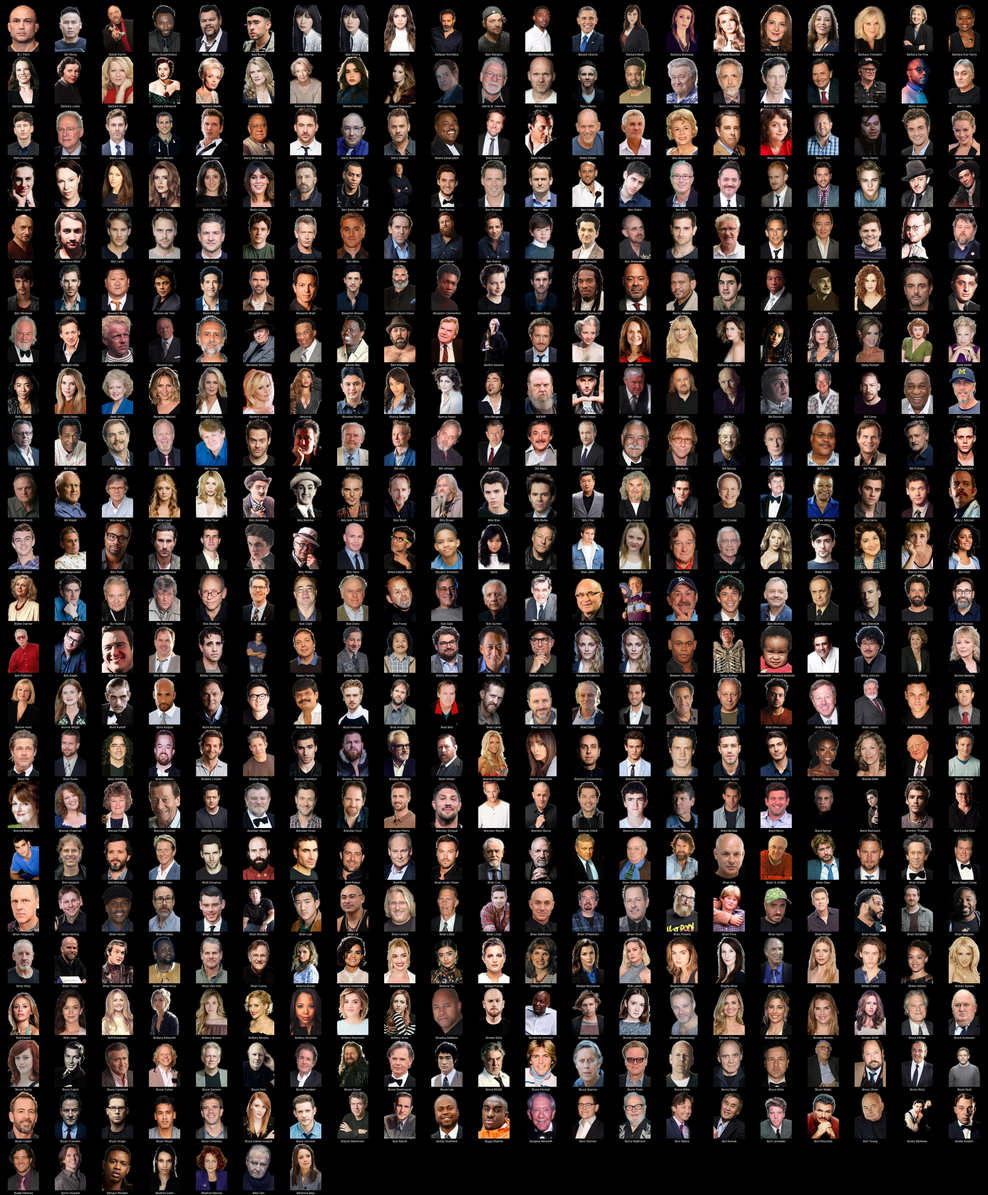
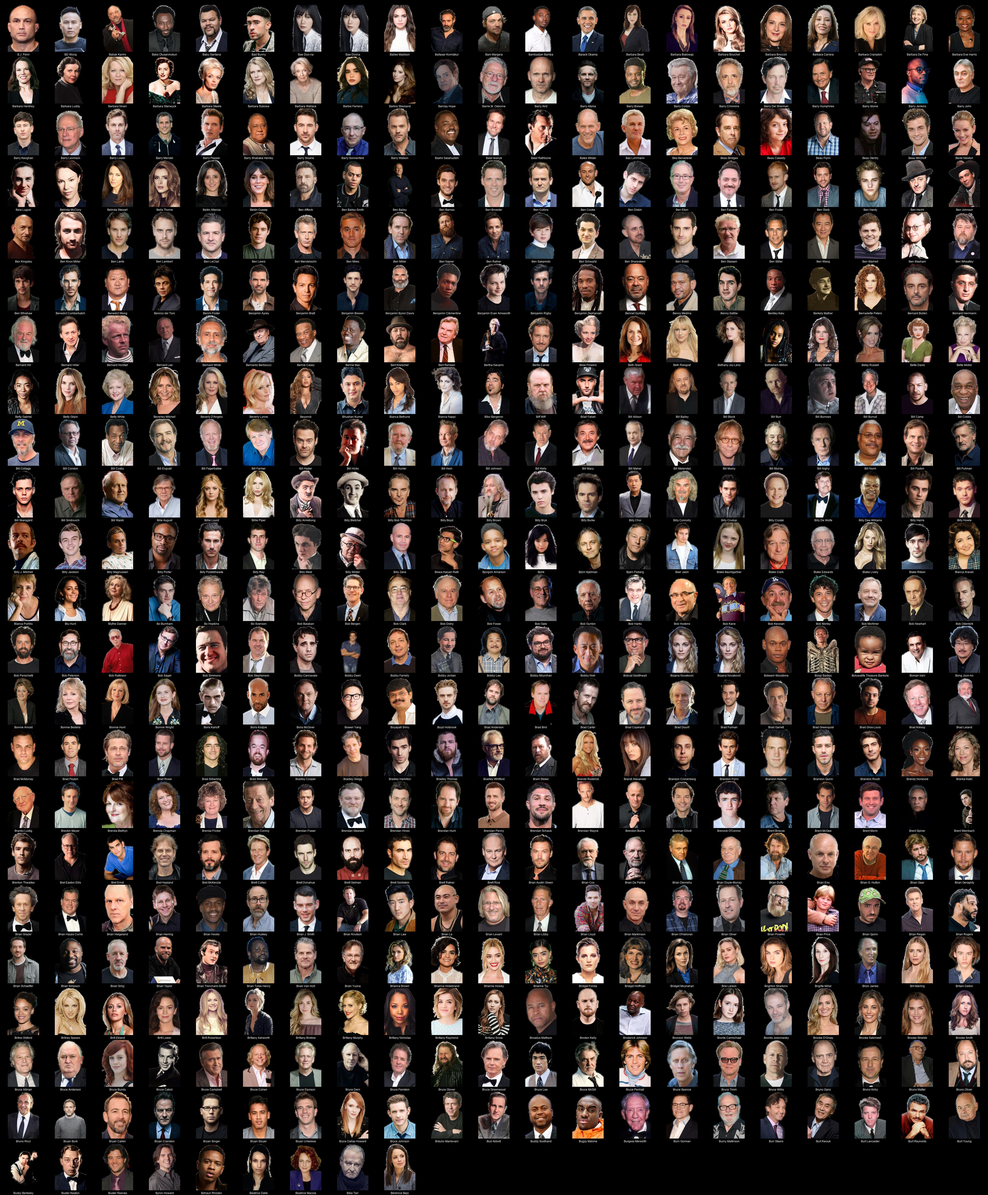
more people

Changed region(s): [[0.0, 0.311, 0.9981, 1.0]]

diff --git a/B/README.md b/B/README.md
@@ -1,4 +1,4 @@
-# Kometa People Images - Transparent (transparent) - B (469 Images)
+# Kometa People Images - Transparent (transparent) - B (471 Images)
 ![Grid](grid.jpg)
 
 * [B.J. Penn](https://raw.githubusercontent.com/Kometa-Team/People-Images-transparent/master/B/Images/B.J.%20Penn.png)
@@ -163,6 +163,7 @@
 * [Bilall Fallah](https://raw.githubusercontent.com/Kometa-Team/People-Images-transparent/master/B/Images/Bilall%20Fallah.png)
 * [Bill Allison](https://raw.githubusercontent.com/Kometa-Team/People-Images-transparent/master/B/Images/Bill%20Allison.png)
 * [Bill Bailey](https://raw.githubusercontent.com/Kometa-Team/People-Images-transparent/master/B/Images/Bill%20Bailey.png)
+* [Bill Block](https://raw.githubusercontent.com/Kometa-Team/People-Images-transparent/master/B/Images/Bill%20Block.png)
 * [Bill Burr](https://raw.githubusercontent.com/Kometa-Team/People-Images-transparent/master/B/Images/Bill%20Burr.png)
 * [Bill Burrows](https://raw.githubusercontent.com/Kometa-Team/People-Images-transparent/master/B/Images/Bill%20Burrows.png)
 * [Bill Burrud](https://raw.githubusercontent.com/Kometa-Team/People-Images-transparent/master/B/Images/Bill%20Burrud.png)
@@ -222,6 +223,7 @@
 * [Biswa Kalyan Rath](https://raw.githubusercontent.com/Kometa-Team/People-Images-transparent/master/B/Images/Biswa%20Kalyan%20Rath.png)
 * [Bjorgvin Arnarson](https://raw.githubusercontent.com/Kometa-Team/People-Images-transparent/master/B/Images/Bjorgvin%20Arnarson.png)
 * [Björk](https://raw.githubusercontent.com/Kometa-Team/People-Images-transparent/master/B/Images/Bj%C3%B6rk.png)
+* [Björn Kjellman](https://raw.githubusercontent.com/Kometa-Team/People-Images-transparent/master/B/Images/Bj%C3%B6rn%20Kjellman.png)
 * [Bjørn Floberg](https://raw.githubusercontent.com/Kometa-Team/People-Images-transparent/master/B/Images/Bj%C3%B8rn%20Floberg.png)
 * [Blair Jasin](https://raw.githubusercontent.com/Kometa-Team/People-Images-transparent/master/B/Images/Blair%20Jasin.png)
 * [Blake Baumgartner](https://raw.githubusercontent.com/Kometa-Team/People-Images-transparent/master/B/Images/Blake%20Baumgartner.png)

diff --git a/A/README.md b/A/README.md
@@ -1,4 +1,4 @@
-# Kometa People Images - Transparent (transparent) - A (764 Images)
+# Kometa People Images - Transparent (transparent) - A (765 Images)
 ![Grid](grid.jpg)
 
 * [Aamir Khan](https://raw.githubusercontent.com/Kometa-Team/People-Images-transparent/master/A/Images/Aamir%20Khan.png)
@@ -556,6 +556,7 @@
 * [Annabelle Wallis](https://raw.githubusercontent.com/Kometa-Team/People-Images-transparent/master/A/Images/Annabelle%20Wallis.png)
 * [Annaleigh Ashford](https://raw.githubusercontent.com/Kometa-Team/People-Images-transparent/master/A/Images/Annaleigh%20Ashford.png)
 * [Annalisa Cochrane](https://raw.githubusercontent.com/Kometa-Team/People-Images-transparent/master/A/Images/Annalisa%20Cochrane.png)
+* [Anndi McAfee](https://raw.githubusercontent.com/Kometa-Team/People-Images-transparent/master/A/Images/Anndi%20McAfee.png)
 * [Anne Archer](https://raw.githubusercontent.com/Kometa-Team/People-Images-transparent/master/A/Images/Anne%20Archer.png)
 * [Anne Bancroft](https://raw.githubusercontent.com/Kometa-Team/People-Images-transparent/master/A/Images/Anne%20Bancroft.png)
 * [Anne Baxter](https://raw.githubusercontent.com/Kometa-Team/People-Images-transparent/master/A/Images/Anne%20Baxter.png)
